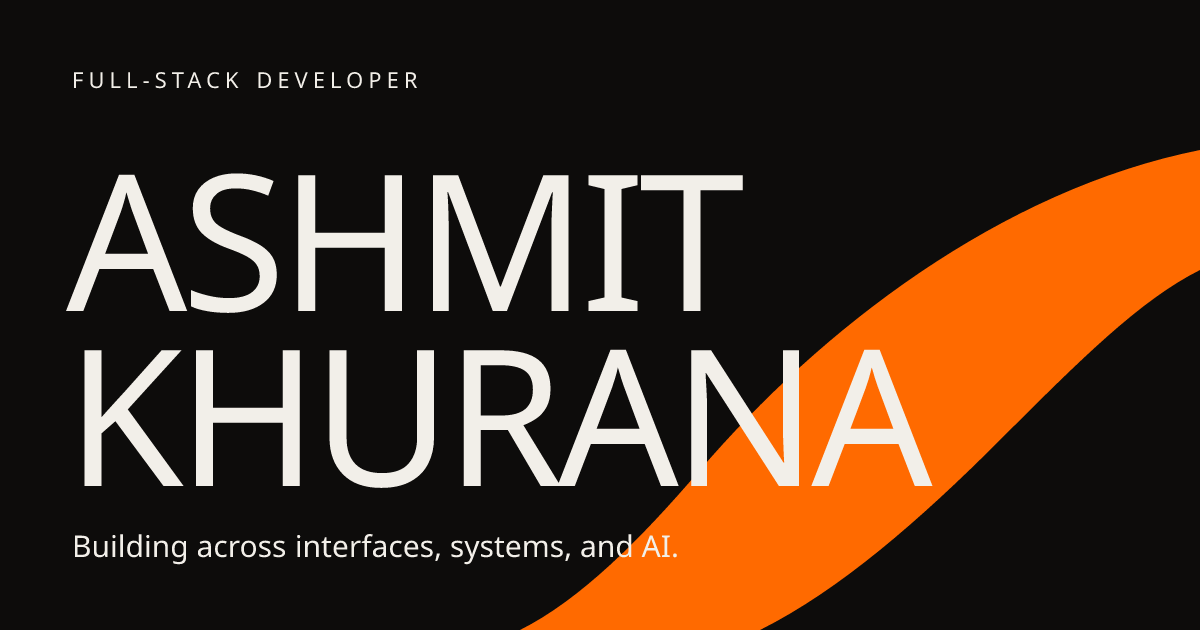
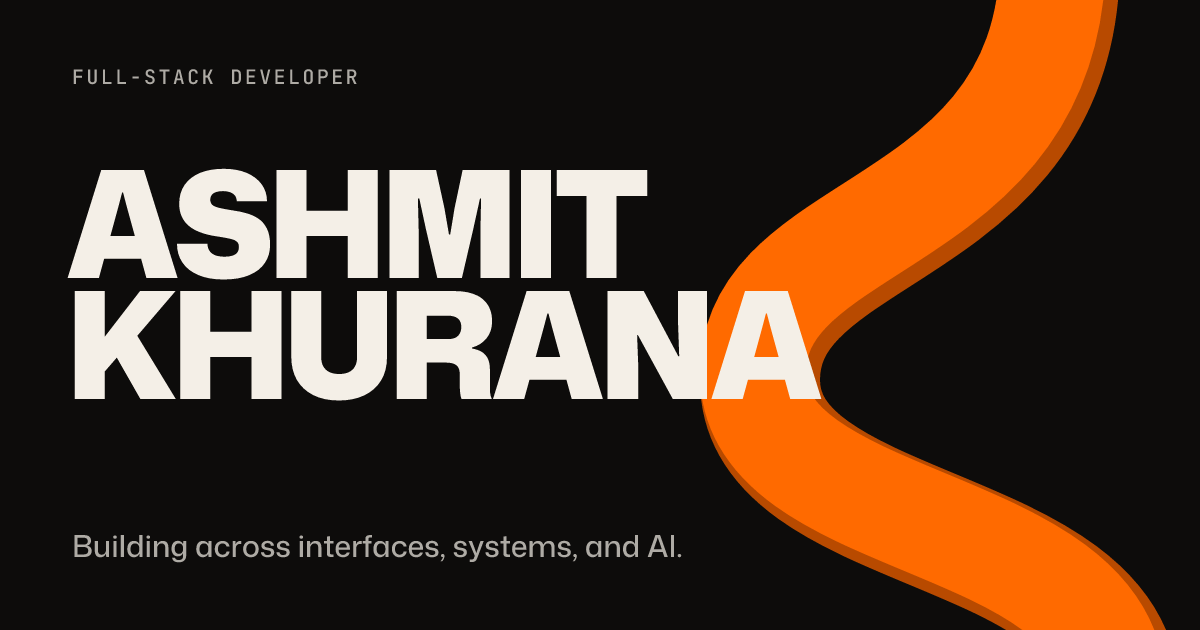
fix(seo): OG image in brand type (Mona Sans 900 / JetBrains Mono) with ribbon band

diff --git a/app/opengraph-image.tsx b/app/opengraph-image.tsx
@@ -6,10 +6,51 @@ export const size = { width: 1200, height: 630 };
 export const contentType = "image/png";
 
 const BG = "#0d0c0b";
-const FG = "#f2efe9";
+const FG_MUTED = "rgba(244, 239, 231, 0.7)";
 const ACCENT = "#ff6a00";
+const ACCENT_DARK = "#b84a00";
 
-export default function OpengraphImage() {
+const NAME_SIZE = 148;
+
+async function loadGoogleFont(family: string, weight: number, text?: string) {
+  const params = `family=${family}:wght@${weight}${text ? `&text=${encodeURIComponent(text)}` : ""}&display=swap`;
+  const css = await (await fetch(`https://fonts.googleapis.com/css2?${params}`)).text();
+  const match = css.match(/src: url\((.+?)\) format\('(?:opentype|truetype)'\)/);
+  if (!match) throw new Error(`No font src for ${family} ${weight}`);
+  const res = await fetch(match[1]);
+  if (!res.ok) throw new Error(`Font fetch failed for ${family}`);
+  const data = await res.arrayBuffer();
+  console.log(`[og] font ${family} ${weight}: ${data.byteLength} bytes`);
+  return data;
+}
+
+type OgFont = { name: string; data: ArrayBuffer; weight: 500 | 900; style: "normal" };
+
+async function loadFonts(): Promise<OgFont[] | null> {
+  try {
+    const [mona900, mona500, mono] = await Promise.all([
+      loadGoogleFont("Mona+Sans", 900, "ASHMITKHURANA"),
+      loadGoogleFont("Mona+Sans", 500, identity.tagline),
+      loadGoogleFont("JetBrains+Mono", 500, "FULL-STACK DEVELOPER"),
+    ]);
+    return [
+      { name: "Mona Sans", data: mona900, weight: 900, style: "normal" },
+      { name: "Mona Sans", data: mona500, weight: 500, style: "normal" },
+      { name: "JetBrains Mono", data: mono, weight: 500, style: "normal" },
+    ];
+  } catch (err) {
+    console.log("[og] font load failed, using defaults:", err);
+    return null;
+  }
+}
+
+export default async function OpengraphImage() {
+  const fonts = await loadFonts();
+  const display = fonts ? "Mona Sans" : "sans-serif";
+  const mono = fonts ? "JetBrains Mono" : "monospace";
+  const ribbon =
+    "M 1120 700 C 1120 520, 760 540, 760 380 C 760 220, 1060 240, 1060 -40";
+
   return new ImageResponse(
     (
       <div
@@ -19,8 +60,7 @@ export default function OpengraphImage() {
           display: "flex",
           position: "relative",
           background: BG,
-          color: FG,
-          fontFamily: "sans-serif",
+          fontFamily: display,
         }}
       >
         <svg
@@ -29,9 +69,13 @@ export default function OpengraphImage() {
           viewBox="0 0 1200 630"
           style={{ position: "absolute", top: 0, left: 0 }}
         >
+          <path d={ribbon} fill="none" stroke={ACCENT_DARK} strokeWidth="120" />
           <path
-            d="M1200 150 C 1000 190, 820 330, 700 470 C 640 540, 580 600, 520 630 L 760 630 C 840 590, 920 520, 1000 440 C 1080 360, 1140 300, 1200 270 Z"
-            fill={ACCENT}
+            d={ribbon}
+            fill="none"
+            stroke={ACCENT}
+            strokeWidth="106"
+            transform="translate(-7 -7)"
           />
         </svg>
         <div
@@ -40,10 +84,11 @@ export default function OpengraphImage() {
             top: 64,
             left: 72,
             display: "flex",
-            fontSize: 22,
-            letterSpacing: 5,
-            fontFamily: "monospace",
-            color: FG,
+            fontFamily: mono,
+            fontWeight: 500,
+            fontSize: 20,
+            letterSpacing: "0.12em",
+            color: FG_MUTED,
           }}
         >
           FULL-STACK DEVELOPER
@@ -51,14 +96,16 @@ export default function OpengraphImage() {
         <div
           style={{
             position: "absolute",
-            top: 150,
+            top: 160,
             left: 66,
             display: "flex",
             flexDirection: "column",
-            fontSize: 190,
+            fontFamily: display,
+            fontSize: NAME_SIZE,
             fontWeight: 900,
-            lineHeight: 0.92,
-            letterSpacing: -6,
+            lineHeight: 0.82,
+            letterSpacing: "-0.04em",
+            color: "#f4efe7",
           }}
         >
           <div style={{ display: "flex" }}>ASHMIT</div>
@@ -70,14 +117,16 @@ export default function OpengraphImage() {
             bottom: 64,
             left: 72,
             display: "flex",
+            fontFamily: display,
+            fontWeight: 500,
             fontSize: 30,
-            color: FG,
+            color: FG_MUTED,
           }}
         >
           {identity.tagline}
         </div>
       </div>
     ),
-    { ...size },
+    { ...size, ...(fonts ? { fonts } : {}) },
   );
 }
